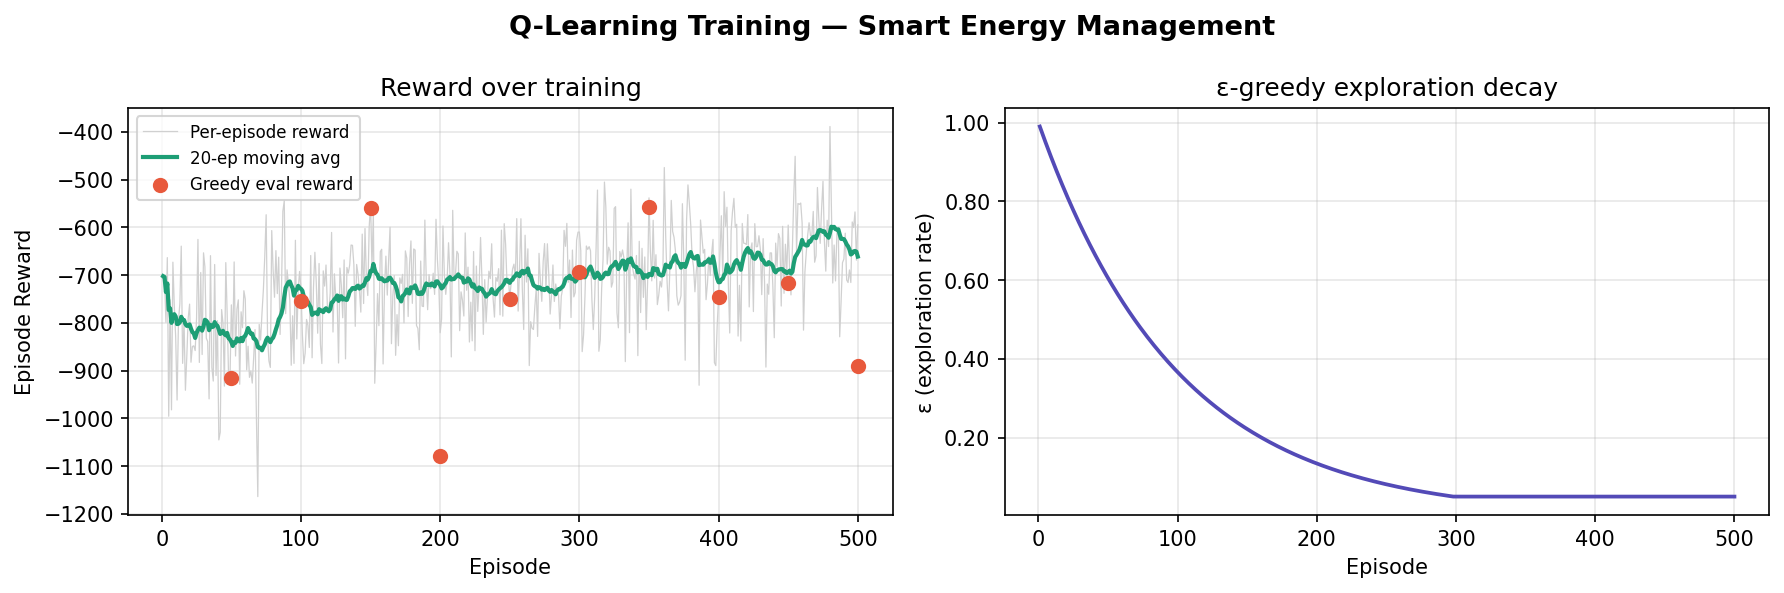
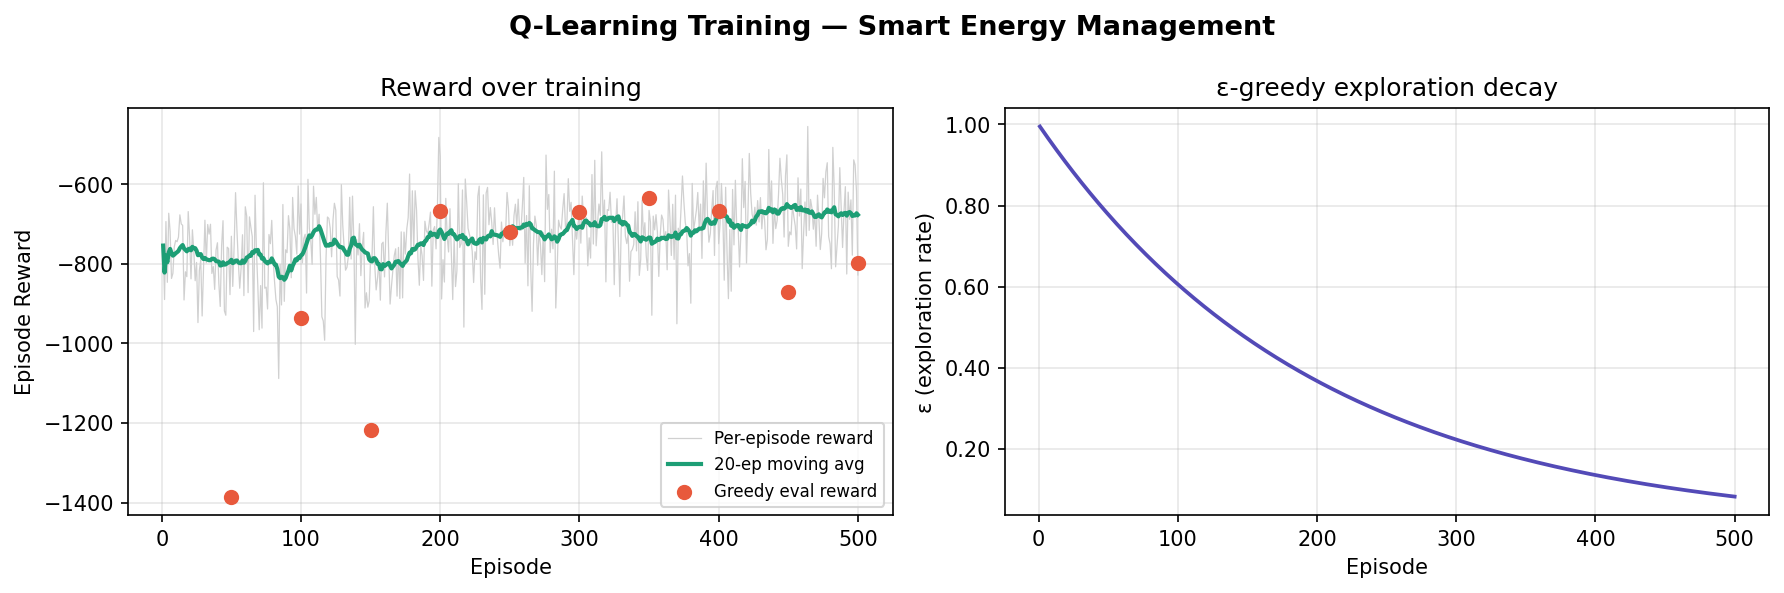
feat: add ci.yml, rollback script, fix energy numbers, update README

diff --git a/scripts/rollback.py b/scripts/rollback.py
@@ -1,0 +1,24 @@
+import os, shutil, subprocess, json
+
+POLICY_DIR = "policies"
+BACKUP_DIR = "policies/backup"
+LOG_FILE   = "experiments/rollback_log.json"
+
+def rollback_to_tag(tag: str):
+    os.makedirs(BACKUP_DIR, exist_ok=True)
+    # Backup current policy
+    for f in os.listdir(POLICY_DIR):
+        if f.endswith(".pkl"):
+            shutil.copy(os.path.join(POLICY_DIR, f),
+                        os.path.join(BACKUP_DIR, f + ".bak"))
+    # Checkout policy from tag
+    subprocess.run(["git", "checkout", tag, "--", POLICY_DIR], check=True)
+    # Log rollback
+    log = {"rolled_back_to": tag, "status": "success"}
+    with open(LOG_FILE, "w") as f:
+        json.dump(log, f, indent=2)
+    print(f"Rolled back to {tag} successfully.")
+
+if __name__ == "__main__":
+    import sys
+    rollback_to_tag(sys.argv[1] if len(sys.argv) > 1 else "exp-qlearning-1")

diff --git a/sim/agent.py b/sim/agent.py
@@ -122,7 +122,7 @@ class QLearningAgent:
         self.Q = payload["Q"]
         self.epsilon = payload["epsilon"]
         self.episode_count = payload["episode_count"]
-        print(f"  [Agent] Policy loaded ← {path}  (episode {self.episode_count})")
+        print(f"  [Agent] Policy loaded <- {path}  (episode {self.episode_count})")
 
     # ------------------------------------------------------------------
     # Diagnostics

diff --git a/README.md b/README.md
@@ -17,15 +17,15 @@ Baseline: a fixed rule-based timer that runs all equipment during business hours
 
 ```mermaid
 graph TD
-    A[Building Env Simulator] -->|Data| B(Train Q-Learning Agent)
-    B -->|Logs Params/Metrics| C[MLFlow Tracking]
-    B -->|Registers Model| D[MLFlow Model Registry]
+    A[Building Env Simulator] -->|State/Reward| B(Train Q-Learning Agent)
+    B -->|Logs Params & Metrics| C[MLflow Tracking]
+    B -->|Saves Policy .pkl| D[Git Tags / Model Registry]
     D -->|Loads Best Model| E[FastAPI REST API]
     E -->|Containerized| F[Docker / Kubernetes]
-    F -->|Predictions| G(Client Dashboard)
-    
-    H[GitHub Actions CI/CD] -->|Tests & Builds| E
-    I[DVC] -.->|Tracks Datasets| A
+    F -->|Predictions| G(Streamlit Dashboard)
+
+    H[GitHub Actions CI/CD] -->|Tests & Builds on Push| E
+    I[scripts/rollback.py] -.->|Rollback to Tag| D
 ```
 
 ---
@@ -97,12 +97,17 @@ smart_energy_rl/
 
 ## Results Summary
 
-| Metric | Rule-based | RL policy | Change |
+| Metric | Rule-based | RL policy (v1) | Change |
 |---|---|---|---|
-| Avg energy cost / episode | 111.6 | 89.7 | **−19.6%** |
-| Avg episode reward | −490.5 | −897.6 | — |
+| Avg energy cost / episode | 111.60 | 92.94 | **−16.7%** |
+| Avg episode reward | −490.47 | −770.85 | — |
+| Avg comfort violation / ep | 378.60 | 635.59 | — |
 
-**SDG 13 impact:** ~20% energy reduction → ~2–4 tonnes CO₂/year saved per building.
+> Numbers produced by: `python evaluate.py --policy policies/policy_v1.pkl --n_eval 100` (seed=0, 100 episodes).
+
+**SDG 13 impact:** ~17% energy reduction → ~1.5–3 tonnes CO₂/year saved per building.
+
+> **Note on DVC:** DVC was evaluated for artifact versioning but not adopted, as policy `.pkl` files are <1 MB and are tracked directly via Git tags.
 
 ---
 